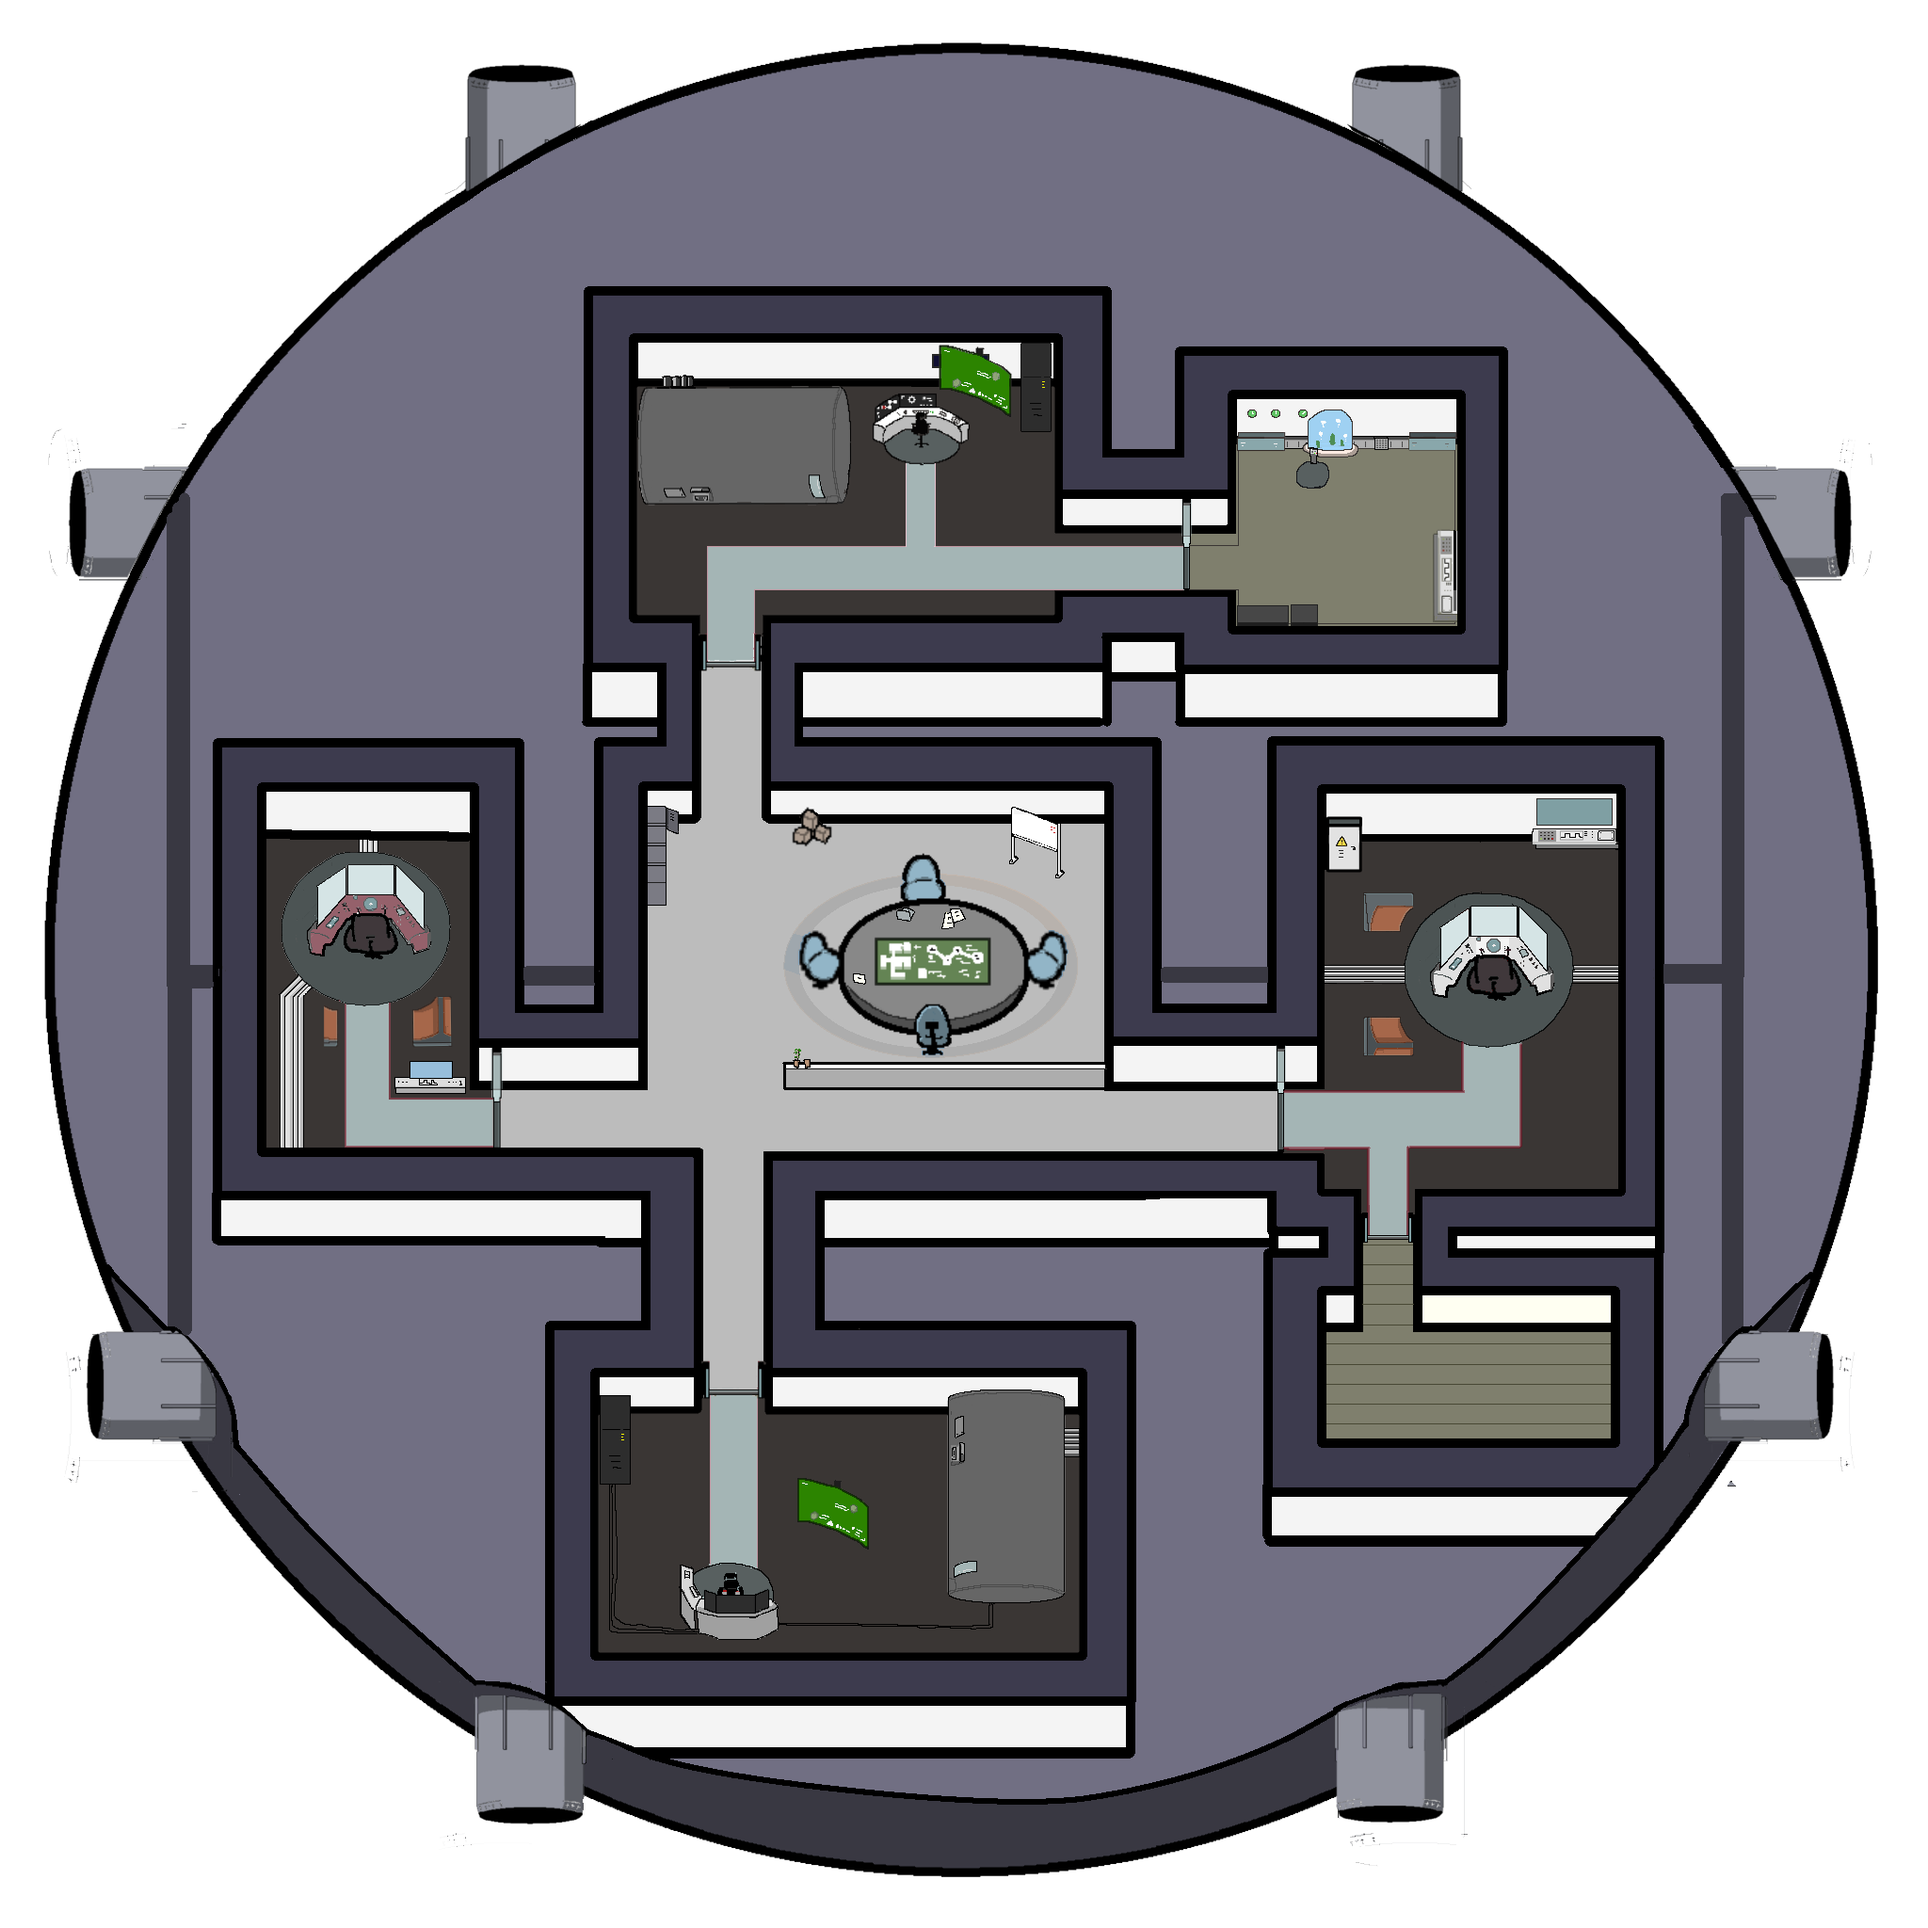
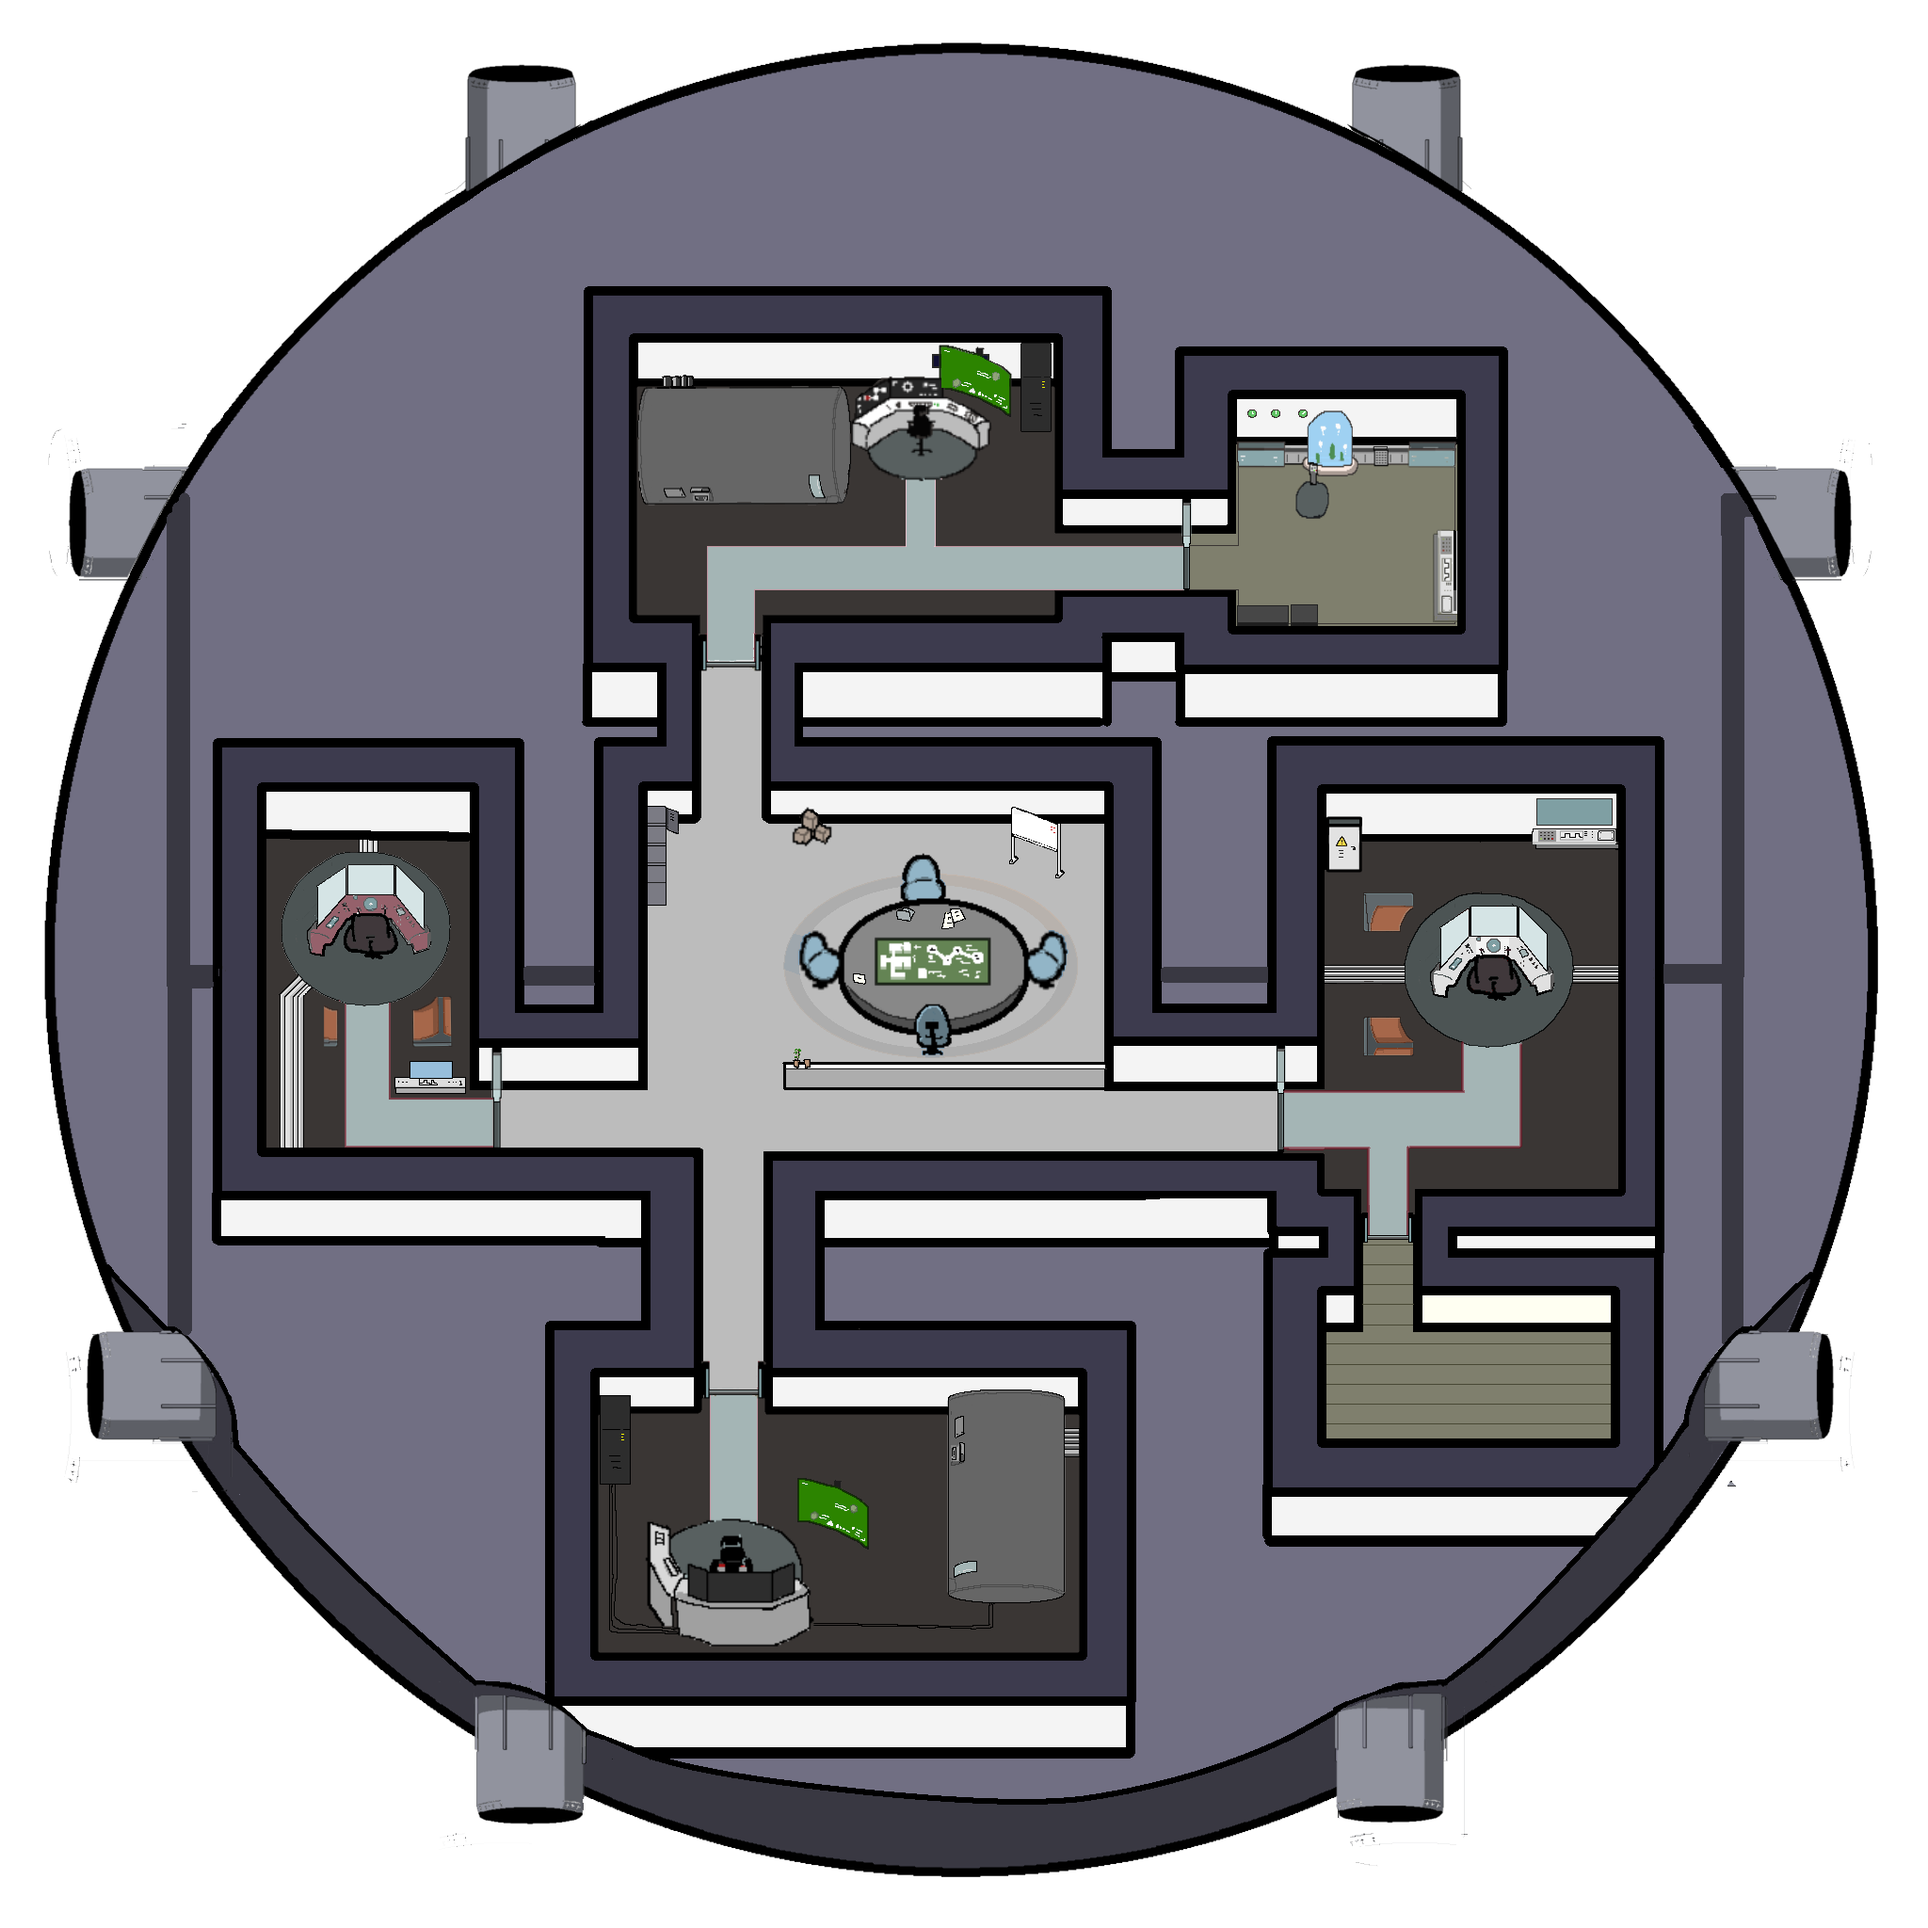
画像差し替え２

Changed region(s): [[0.3125, 0.7812, 0.4375, 0.875], [0.625, 0.2188, 0.75, 0.2812], [0.4375, 0.1875, 0.5312, 0.25]]

diff --git a/server_command.c b/server_command.c
@@ -65,7 +65,7 @@ int ColorDecision(SDL_Surface *surface, int x, int y){
     if (r == 255 && g == 0 && b == 0) {
         // 赤
         return  IT_MoveR;
-    } else if (r == 0 && g == 255 && b == 0) {
+    } else if (r == 45 && g == 173 && b == 49) {
         // 緑
         return IT_AttackUpper;
     } else if (r == 0 && g == 85 && b == 255) {
